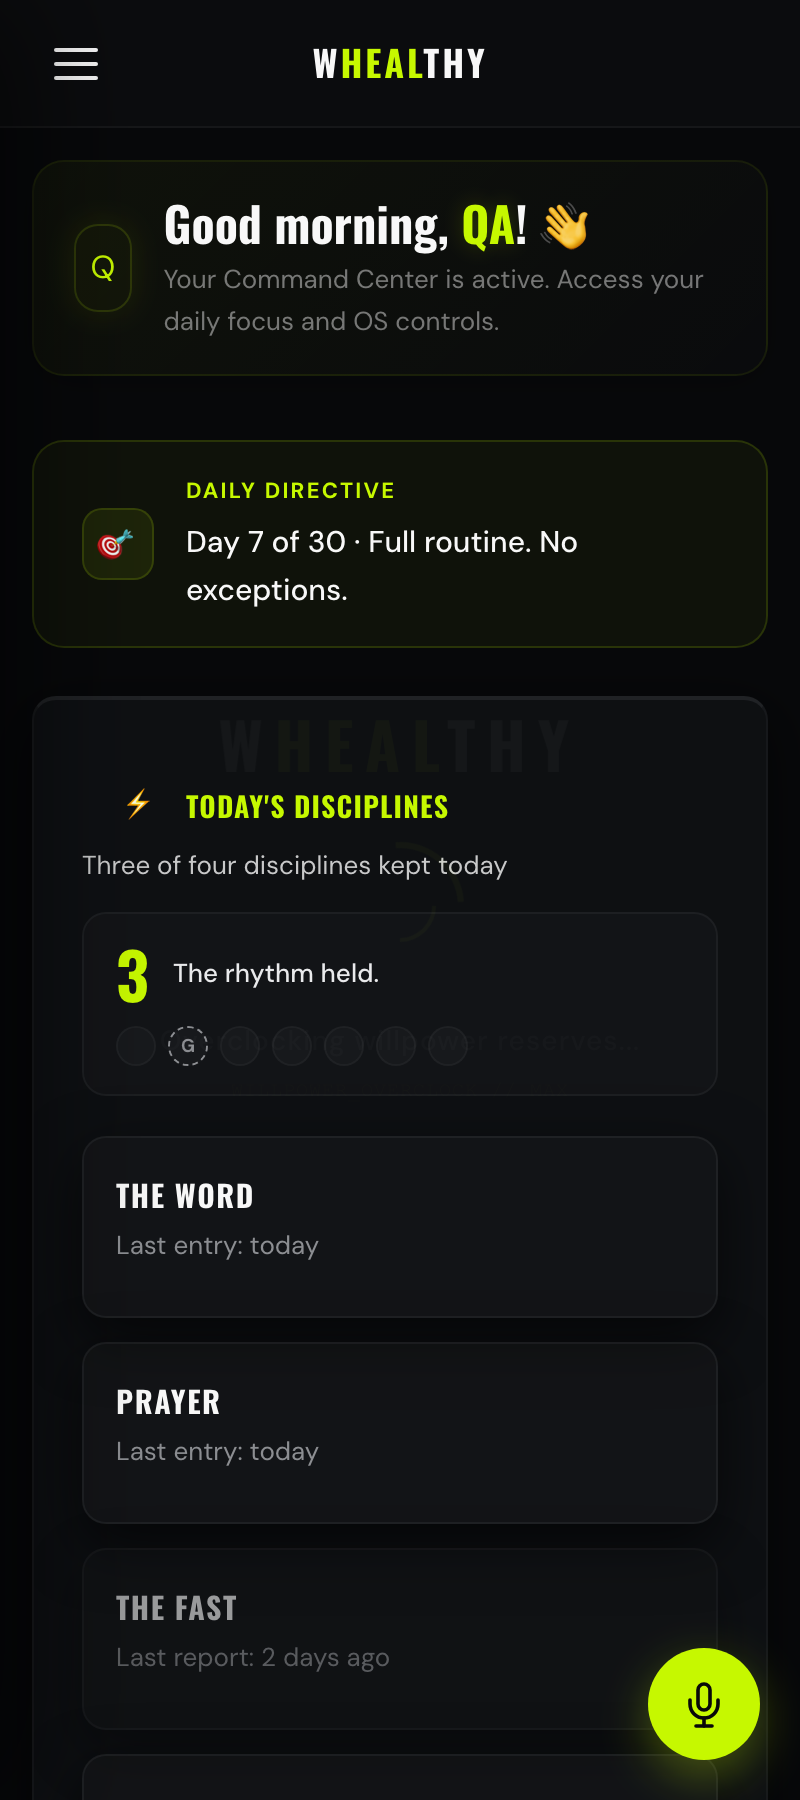
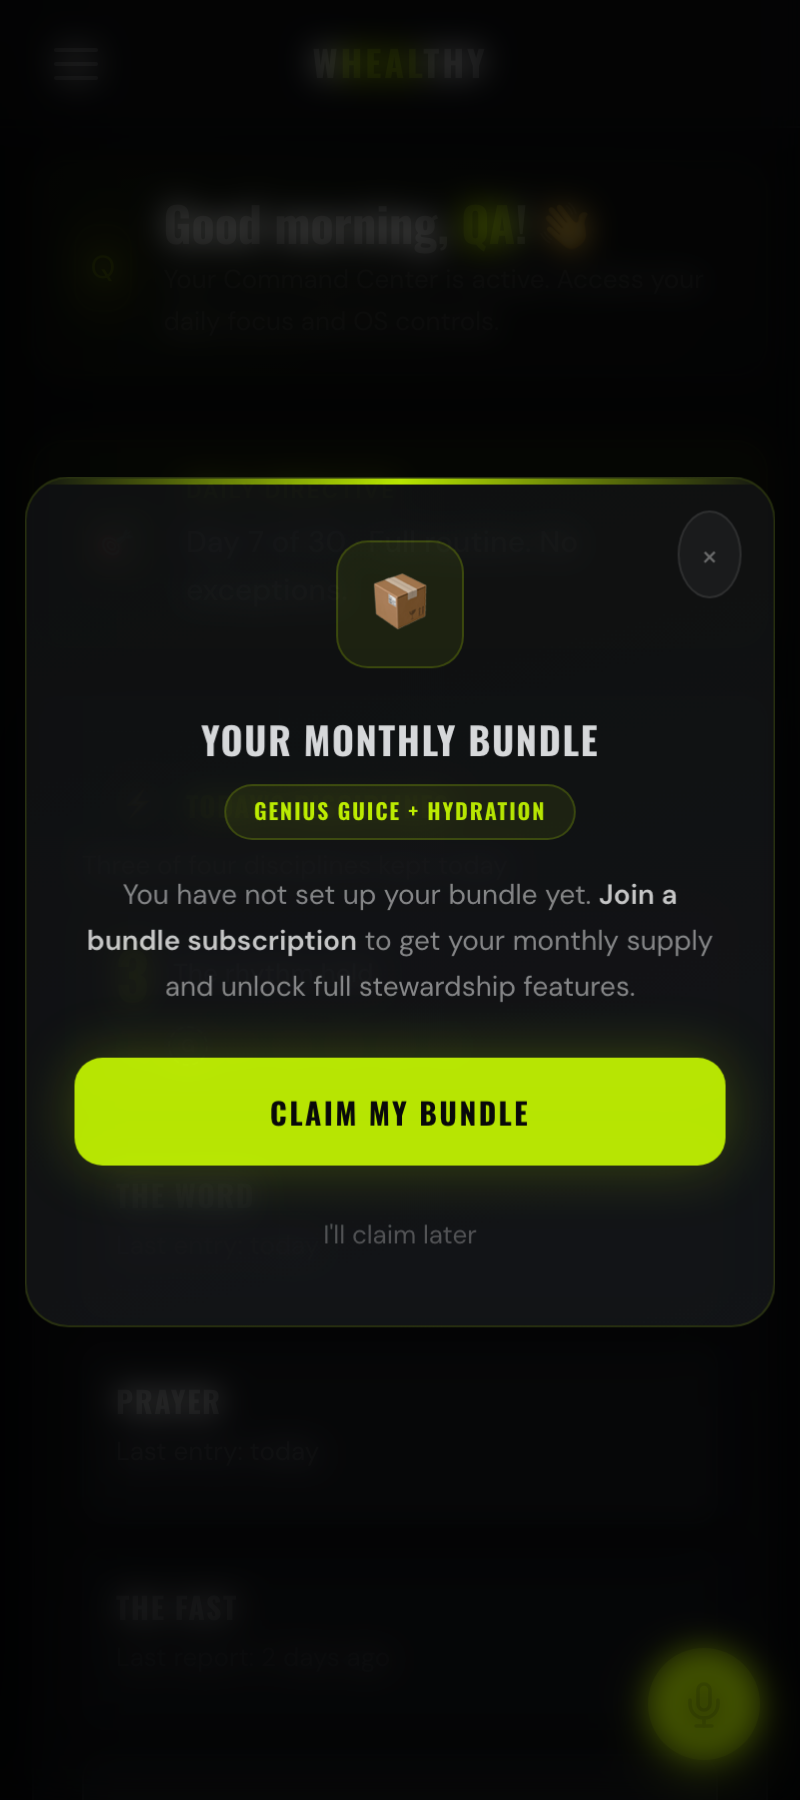
fix(steward-circles): resolve name wrapping issues on mobile viewports for dashboard circle card

diff --git a/index.html b/index.html
@@ -13901,10 +13901,10 @@ window.loadDashboardCircle = async function() {
       const isShepherd = m.role === 'shepherd';
       
       html += `
-        <div style="display:flex; align-items:center; justify-content:space-between; padding:10px 12px; border-radius:10px; background:${isSelf ? 'rgba(204,255,0,0.04)' : 'rgba(255,255,255,0.01)'}; border: 1px solid ${isSelf ? 'rgba(204,255,0,0.2)' : 'rgba(255,255,255,0.03)'};">
+        <div style="display:flex; align-items:center; justify-content:space-between; flex-wrap:wrap; gap:8px 12px; padding:10px 12px; border-radius:10px; background:${isSelf ? 'rgba(204,255,0,0.04)' : 'rgba(255,255,255,0.01)'}; border: 1px solid ${isSelf ? 'rgba(204,255,0,0.2)' : 'rgba(255,255,255,0.03)'};">
           <div style="display:flex; align-items:center; gap:10px;">
-            <div style="font-size:13.5px; font-weight:600; color:${isSelf ? 'var(--lime)' : '#fff'}; display:flex; align-items:center; gap:6px;">
-              ${esc(m.name)}
+            <div style="font-size:13.5px; font-weight:600; color:${isSelf ? 'var(--lime)' : '#fff'}; display:flex; align-items:center; flex-wrap:wrap; gap:6px;">
+              <span style="white-space:nowrap;">${esc(m.name)}</span>
               ${isShepherd ? `<span style="font-size:9px; background:rgba(204,255,0,0.15); color:var(--lime); border:1px solid rgba(204,255,0,0.3); padding:1px 5px; border-radius:4px; font-weight:700; text-transform:uppercase; letter-spacing:0.04em;">Shepherd</span>` : ''}
               ${isSelf ? `<span style="font-size:9px; background:rgba(255,255,255,0.1); color:rgba(255,255,255,0.6); padding:1px 5px; border-radius:4px; font-weight:600; text-transform:uppercase;">You</span>` : ''}
             </div>
